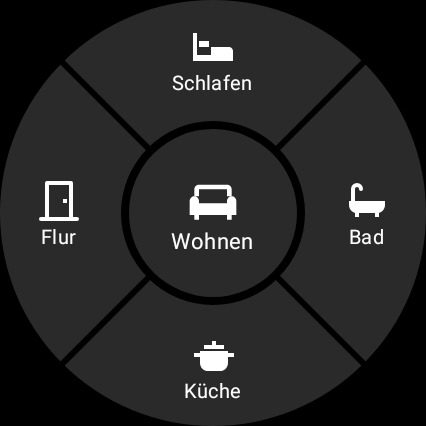
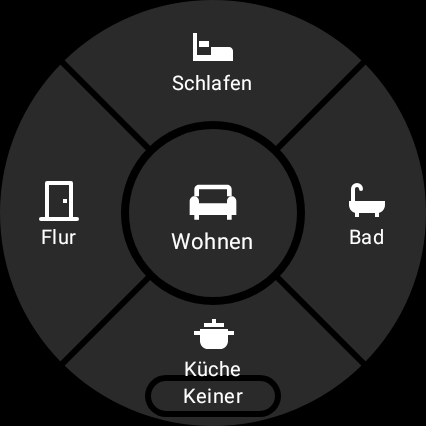
wear 2.7: Keiner choice (no room) in prompt notification, rooms page and tile

Changed region(s): [[0.3357, 0.7324, 0.6714, 0.9765]]

diff --git a/wear/app/src/main/java/de/aapphh/heatscan/Core.kt b/wear/app/src/main/java/de/aapphh/heatscan/Core.kt
@@ -21,13 +21,15 @@ object Defaults {
     const val SERVER = "http://192.168.178.29:8080"
     const val HOME = "FRITZ!Box 1234 AB"
     val ROOMS = listOf("wohnzimmer", "schlafzimmer", "bad", "kueche", "flur")
-    val CAPTIONS = mapOf("wohnzimmer" to "Wohnen", "schlafzimmer" to "Schlafen", "bad" to "Bad", "kueche" to "Küche", "flur" to "Flur")
+    const val NONE = "keiner"
+    val LABELS = ROOMS + NONE
+    val CAPTIONS = mapOf("wohnzimmer" to "Wohnen", "schlafzimmer" to "Schlafen", "bad" to "Bad", "kueche" to "Küche", "flur" to "Flur", NONE to "Kein Raum")
 }
 
 object RoomIcons {
     val RES = mapOf(
         "wohnzimmer" to R.drawable.ic_wohnzimmer, "schlafzimmer" to R.drawable.ic_schlafzimmer, "bad" to R.drawable.ic_bad,
-        "kueche" to R.drawable.ic_kueche, "flur" to R.drawable.ic_flur
+        "kueche" to R.drawable.ic_kueche, "flur" to R.drawable.ic_flur, Defaults.NONE to R.drawable.ic_keiner
     )
 }
 
@@ -71,9 +73,9 @@ object Prompt {
 
     fun title(change: Boolean) = if (change) "Raum gewechselt? Wo bist du jetzt?" else "Wo bist du?"
 
-    fun rooms(guess: String?): List<String> = if (guess != null && guess in ORDER) listOf(guess) + ORDER.filter { it != guess } else ORDER
+    fun rooms(guess: String?): List<String> = (if (guess != null && guess in ORDER) listOf(guess) + ORDER.filter { it != guess } else ORDER) + Defaults.NONE
 
-    fun caption(room: String, guess: String?): String = (if (room == guess) "● " else "") + Rings.name(room)
+    fun caption(room: String, guess: String?): String = if (room == Defaults.NONE) "Keiner" else (if (room == guess) "● " else "") + Rings.name(room)
 
     fun done(room: String) = "✓ Gespeichert: " + Rings.name(room)
 
@@ -293,7 +295,7 @@ class StayTracker {
         fun parse(text: String?): StayTracker = StayTracker().also { t ->
             try {
                 val o = JSONObject(text ?: return@also)
-                t.label = if (o.isNull("label")) null else o.optString("label").takeIf { it in Defaults.ROOMS }
+                t.label = if (o.isNull("label")) null else o.optString("label").takeIf { it in Defaults.LABELS }
                 t.confirmedAt = o.optLong("confirmedAt")
                 t.fp = Fingerprint.parse(o.optJSONObject("fp"))
                 t.n = o.optInt("n")
@@ -347,10 +349,18 @@ object Quarters {
     const val LABEL_R = 77f / REF
     const val GAP = 3f
     const val SPAN = 90f
+    const val NONE_TOP = 84f / REF
+    const val NONE_H = 15f / REF
+    const val NONE_HALF_W = 31f / REF
+    const val NONE_HIT_TOP = 80f / REF
+    val LABEL_SHIFT = mapOf("kueche" to -11f / REF)
+
+    fun labelR(room: String): Float = LABEL_R + (LABEL_SHIFT[room] ?: 0f)
 
     fun mid(room: String): Float = WEDGES.indexOf(room) * SPAN
 
     fun room(dx: Float, dy: Float, d: Float): String {
+        if (dy >= NONE_HIT_TOP * d && kotlin.math.abs(dx) <= (NONE_HALF_W + 0.02f) * d && kotlin.math.hypot(dx, dy) <= 0.5f * d) return Defaults.NONE
         if (kotlin.math.hypot(dx, dy) < CENTER_R * d) return CENTER
         val deg = Math.toDegrees(kotlin.math.atan2(dx.toDouble(), -dy.toDouble())).toFloat()
         return WEDGES[(((deg + SPAN / 2 + 360f) % 360f) / SPAN).toInt() % WEDGES.size]
@@ -592,7 +602,7 @@ object TileClick {
         if (!id.startsWith(PREFIX)) return null
         val parts = id.removePrefix(PREFIX).split(':')
         if (parts.size != 2 || parts[1] != nonce.toString()) return null
-        return parts[0].takeIf { it in Defaults.ROOMS }
+        return parts[0].takeIf { it in Defaults.LABELS }
     }
 
     fun statusLine(running: Boolean, mode: String, status: String): String =

diff --git a/wear/app/src/main/java/de/aapphh/heatscan/HeatTileService.kt b/wear/app/src/main/java/de/aapphh/heatscan/HeatTileService.kt
@@ -61,10 +61,47 @@ class HeatTileService : TileService() {
         box.addContent(centre(Quarters.CENTER_R * d * 2f, Quarters.CENTER == hot, Quarters.CENTER == ring, nonce))
         (Quarters.WEDGES + Quarters.CENTER).forEach { room ->
             val a = Math.toRadians(Quarters.mid(room) - 90.0)
-            val r = if (room == Quarters.CENTER) 0f else Quarters.LABEL_R * d
+            val r = if (room == Quarters.CENTER) 0f else Quarters.labelR(room) * d
             box.addContent(label(room, d, (r * cos(a)).toFloat(), (r * sin(a)).toFloat(), room == hot))
         }
+        box.addContent(none(d, Defaults.NONE == hot, Defaults.NONE == ring, nonce))
         return box.build()
+    }
+
+    private fun none(d: Float, selected: Boolean, ringed: Boolean, nonce: Long): LayoutElementBuilders.LayoutElement {
+        val w = Quarters.NONE_HALF_W * d * 2f
+        val h = Quarters.NONE_H * d
+        val mods = ModifiersBuilders.Modifiers.Builder()
+            .setClickable(click(Defaults.NONE, nonce))
+            .setBackground(
+                ModifiersBuilders.Background.Builder()
+                    .setColor(ColorBuilders.argb(if (selected) SELECTED else IDLE))
+                    .setCorner(ModifiersBuilders.Corner.Builder().setRadius(dp(h / 2f)).build())
+                    .build()
+            )
+        if (ringed) mods.setBorder(ModifiersBuilders.Border.Builder().setWidth(dp(2f)).setColor(ColorBuilders.argb(Color.WHITE)).build())
+        val text = LayoutElementBuilders.Text.Builder()
+            .setText(Prompt.caption(Defaults.NONE, null))
+            .setMaxLines(1)
+            .setFontStyle(
+                LayoutElementBuilders.FontStyle.Builder()
+                    .setSize(DimensionBuilders.sp(10f))
+                    .setColor(ColorBuilders.argb(if (selected) INK else Color.WHITE))
+                    .build()
+            )
+            .build()
+        val pill = LayoutElementBuilders.Box.Builder().setWidth(dp(w)).setHeight(dp(h))
+            .setHorizontalAlignment(LayoutElementBuilders.HORIZONTAL_ALIGN_CENTER)
+            .setVerticalAlignment(LayoutElementBuilders.VERTICAL_ALIGN_CENTER)
+            .setModifiers(mods.build())
+            .addContent(text)
+            .build()
+        return LayoutElementBuilders.Box.Builder().setWidth(dp(d)).setHeight(dp(d))
+            .setHorizontalAlignment(LayoutElementBuilders.HORIZONTAL_ALIGN_CENTER)
+            .setVerticalAlignment(LayoutElementBuilders.VERTICAL_ALIGN_TOP)
+            .setModifiers(ModifiersBuilders.Modifiers.Builder().setPadding(ModifiersBuilders.Padding.Builder().setTop(dp(d / 2f + Quarters.NONE_TOP * d)).build()).build())
+            .addContent(pill)
+            .build()
     }
 
     private fun click(room: String, nonce: Long) = ModifiersBuilders.Clickable.Builder()
@@ -162,7 +199,7 @@ class HeatTileService : TileService() {
     private fun dp(v: Float) = DimensionBuilders.dp(v)
 
     companion object {
-        private const val RES_VERSION = "4"
+        private const val RES_VERSION = "5"
         private const val SELECTED = 0xFFE8710A.toInt()
         private const val IDLE = 0xFF2A2A2A.toInt()
         private const val INK = 0xFF111111.toInt()

diff --git a/wear/app/src/test/java/de/aapphh/heatscan/CoreTest.kt b/wear/app/src/test/java/de/aapphh/heatscan/CoreTest.kt
@@ -272,7 +272,8 @@ class CoreTest {
     @Test
     fun roomsAreTheFiveFixedOnes() {
         assertEquals(listOf("wohnzimmer", "schlafzimmer", "bad", "kueche", "flur"), Defaults.ROOMS)
-        assertEquals(Defaults.ROOMS.toSet(), Defaults.CAPTIONS.keys)
+        assertEquals(Defaults.LABELS.toSet(), Defaults.CAPTIONS.keys)
+        assertEquals(Defaults.LABELS.toSet(), RoomIcons.RES.keys)
     }
 
     @Test
@@ -564,9 +565,14 @@ class CoreTest {
 
     @Test
     fun promptListsGuessFirstAndMarked() {
-        assertEquals(listOf("kueche", "wohnzimmer", "flur", "bad", "schlafzimmer"), Prompt.rooms(null))
-        assertEquals(listOf("bad", "kueche", "wohnzimmer", "flur", "schlafzimmer"), Prompt.rooms("bad"))
-        assertEquals(Prompt.ORDER, Prompt.rooms("unbekannt"))
+        assertEquals(listOf("kueche", "wohnzimmer", "flur", "bad", "schlafzimmer", "keiner"), Prompt.rooms(null))
+        assertEquals(listOf("bad", "kueche", "wohnzimmer", "flur", "schlafzimmer", "keiner"), Prompt.rooms("bad"))
+        assertEquals(Prompt.ORDER + "keiner", Prompt.rooms("unbekannt"))
+        assertEquals(Prompt.ORDER + "keiner", Prompt.rooms("keiner"))
+        assertEquals("Keiner", Prompt.caption("keiner", "bad"))
+        assertEquals("✓ Gespeichert: Kein Raum", Prompt.done("keiner"))
+        assertEquals("keiner", TileClick.room(TileClick.id("keiner", 3), 3))
+        assertEquals("keiner", StayTracker.parse(StayTracker().also { it.confirm("keiner", 1000L) }.json()).label)
         assertEquals("● Bad", Prompt.caption("bad", "bad"))
         assertEquals("Küche", Prompt.caption("kueche", "bad"))
         assertEquals("✓ Gespeichert: Wohnen", Prompt.done("wohnzimmer"))
@@ -957,6 +963,11 @@ class CoreTest {
         assertEquals("flur", Quarters.room(-60f, -59f, d))
         assertEquals("bad", Quarters.room(60f, 40f, 300f))
         assertEquals(listOf(0f, 90f, 180f, 270f), Quarters.WEDGES.map { Quarters.mid(it) })
+        assertEquals("keiner", Quarters.room(0f, 91f, d))
+        assertEquals("keiner", Quarters.room(25f, 95f, d))
+        assertEquals("kueche", Quarters.room(0f, 70f, d))
+        assertEquals("kueche", Quarters.room(60f, 85f, d))
+        assertEquals("kueche", Quarters.room(0f, 120f, d))
     }
 
     private val replyText = """{"stored":4,"room":"wohnzimmer","probability":0.8,"rooms":[

diff --git a/wear/app/src/main/java/de/aapphh/heatscan/MainActivity.kt b/wear/app/src/main/java/de/aapphh/heatscan/MainActivity.kt
@@ -34,6 +34,7 @@ import androidx.compose.ui.Alignment
 import androidx.compose.ui.Modifier
 import androidx.compose.foundation.gestures.detectTapGestures
 import androidx.compose.ui.draw.clip
+import androidx.compose.ui.geometry.CornerRadius
 import androidx.compose.ui.geometry.Offset
 import androidx.compose.ui.geometry.Rect
 import androidx.compose.ui.geometry.Size
@@ -188,11 +189,22 @@ internal fun RoomsPage(hot: String?, ringed: String?, onTap: (String) -> Unit) {
             val centre = Path().apply { addOval(Rect(c, Quarters.CENTER_R * d)) }
             drawPath(centre, if (Quarters.CENTER == hot) SELECTED else IDLE)
             if (Quarters.CENTER == ringed) clipPath(centre) { drawPath(centre, Color.White, style = Stroke(ring)) }
+            val pillTopLeft = Offset(c.x - Quarters.NONE_HALF_W * d, c.y + Quarters.NONE_TOP * d)
+            val pillSize = Size(2f * Quarters.NONE_HALF_W * d, Quarters.NONE_H * d)
+            val corner = CornerRadius(pillSize.height / 2f)
+            drawRoundRect(Color.Black, pillTopLeft - Offset(gap, gap), Size(pillSize.width + 2f * gap, pillSize.height + 2f * gap), CornerRadius(corner.x + gap))
+            drawRoundRect(if (Defaults.NONE == hot) SELECTED else IDLE, pillTopLeft, pillSize, corner)
+            if (Defaults.NONE == ringed) drawRoundRect(Color.White, pillTopLeft, pillSize, corner, style = Stroke(2.dp.toPx()))
         }
+        Text(
+            Prompt.caption(Defaults.NONE, null),
+            Modifier.align(Alignment.Center).offset(y = ((Quarters.NONE_TOP + Quarters.NONE_H / 2f) * dDp.value).dp),
+            fontSize = 10.sp, lineHeight = 10.sp, maxLines = 1, color = if (Defaults.NONE == hot) INK else Color.White
+        )
         (Quarters.WEDGES + Quarters.CENTER).forEach { room ->
             val isCenter = room == Quarters.CENTER
             val a = Math.toRadians(Quarters.mid(room) - 90.0)
-            val r = if (isCenter) 0f else Quarters.LABEL_R * dDp.value
+            val r = if (isCenter) 0f else Quarters.labelR(room) * dDp.value
             val ink = if (room == hot) INK else Color.White
             Column(
                 Modifier.align(Alignment.Center).offset((r * cos(a)).dp, (r * sin(a)).dp),

diff --git a/wear/app/src/main/java/de/aapphh/heatscan/ScanService.kt b/wear/app/src/main/java/de/aapphh/heatscan/ScanService.kt
@@ -643,7 +643,7 @@ object Prompter {
 
     private fun action(c: Context, room: String, guess: String?): Notification.Action {
         val pi = PendingIntent.getBroadcast(
-            c, Defaults.ROOMS.indexOf(room) + 10, Intent(c, LabelReceiver::class.java).setAction(ACTION).setData(android.net.Uri.parse("room:$room")).putExtra("room", room),
+            c, Defaults.LABELS.indexOf(room) + 10, Intent(c, LabelReceiver::class.java).setAction(ACTION).setData(android.net.Uri.parse("room:$room")).putExtra("room", room),
             PendingIntent.FLAG_IMMUTABLE or PendingIntent.FLAG_UPDATE_CURRENT
         )
         return Notification.Action.Builder(android.graphics.drawable.Icon.createWithResource(c, RoomIcons.RES.getValue(room)), Prompt.caption(room, guess), pi).build()
@@ -721,7 +721,7 @@ object LabelRecorder {
     }
 
     private fun record(c: Context, room: String) {
-        if (room !in Defaults.ROOMS) return
+        if (room !in Defaults.LABELS) return
         val store = Store(c)
         val now = System.currentTimeMillis()
         val (from, to) = LabelEvent.window(store.stay { it.windowStart(now) }, now)

diff --git a/wear/app/src/test/java/de/aapphh/heatscan/ScreenshotTest.kt b/wear/app/src/test/java/de/aapphh/heatscan/ScreenshotTest.kt
@@ -38,6 +38,10 @@ class ScreenshotTest {
 
     @Test fun rooms_label_bad_guess_kueche() = shot("rooms_label_bad_guess_kueche") { RoomsPage("kueche", "bad") {} }
 
+    @Test fun rooms_label_keiner() = shot("rooms_label_keiner") { RoomsPage("keiner", null) {} }
+
+    @Test fun rooms_label_keiner_guess_flur() = shot("rooms_label_keiner_guess_flur") { RoomsPage("flur", "keiner") {} }
+
     @Test fun data_demo() = shot("data_demo") { demo() }
 
     @Test fun data_no_model() = shot("data_no_model") {
